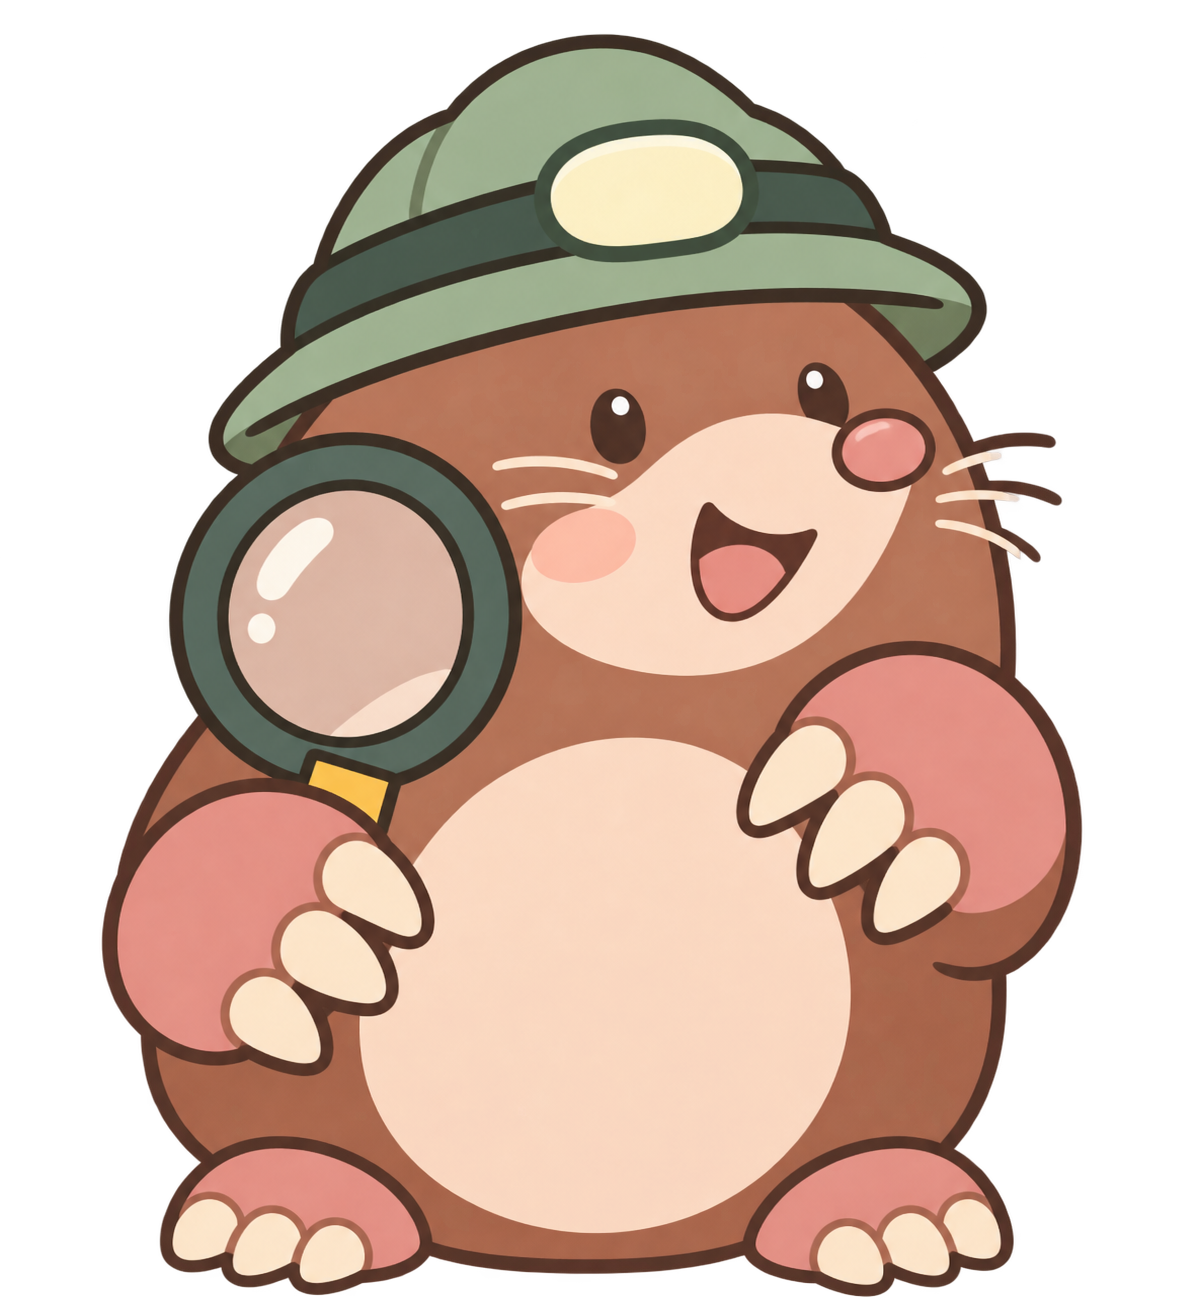
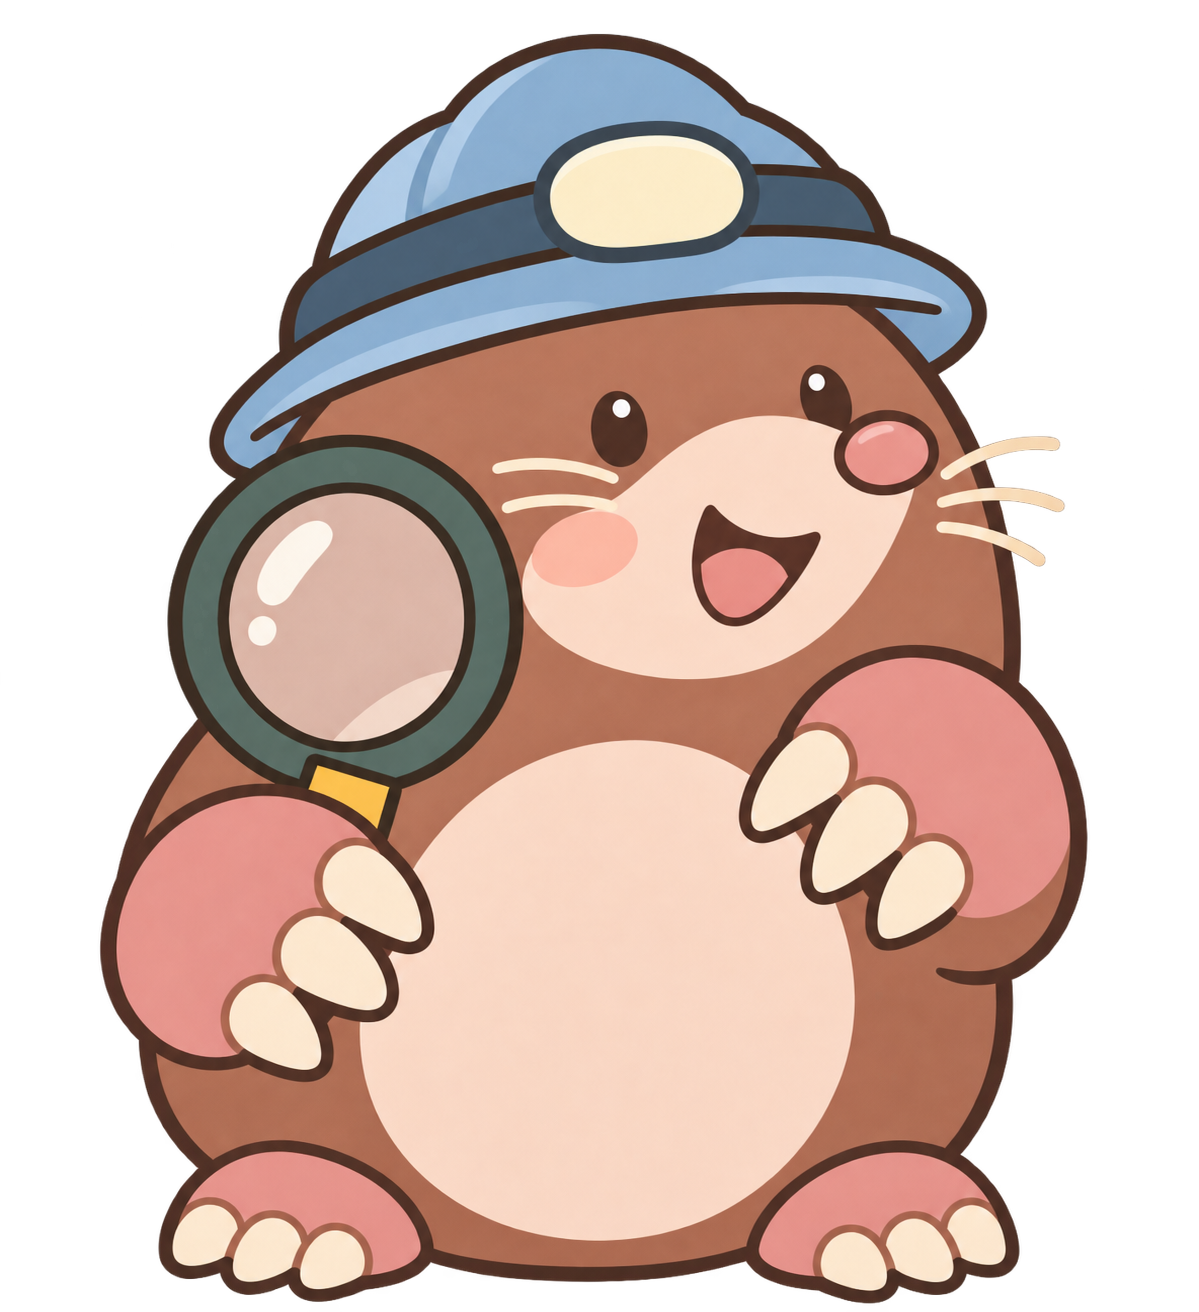
style: 두더지 모자와 수염 색상 통일

diff --git a/frontend/public/images/BLUE_MASCOTS.md b/frontend/public/images/BLUE_MASCOTS.md
@@ -1,0 +1,9 @@
+# 두더지 색상 통일
+
+도구: 내장 image_gen. 기존 7개 PNG를 각각 편집하고 투명 배경을 유지합니다.
+
+적용 파일: `mole-explorer.png`, `mole-welcome.png`, `mole-strategy.png`, `mole-success.png`, `mole-investigate.png`, `mole-event-review.png`, `mole-calendar.png`.
+
+## 최종 공통 편집 프롬프트
+
+Use case: precise-object-edit. Edit the FIRST image, preserving it as closely as possible. Change ONLY two colors: (1) make the entire miner helmet crown and brim a consistent soft cornflower blue, base #87ADD3, with lighter blue highlights #B9D3EA and dark navy-blue band #405A73; keep the existing pale yellow headlamp, brown outlines, cap shape and shading. (2) ALL whisker strokes on BOTH cheeks must have the SAME warm light cream color #FFE6C8, including the whiskers extending beyond the silhouette. No dark brown, green or yellow whiskers on either side. Preserve every other color: chestnut brown fur, peach cream muzzle/belly, pink nose/cheeks/paws, cream claws. Preserve exact pose, facial expression, proportions, accessories, report/chart/calendar/clipboard/map/sprout, framing, silhouette, hand-painted texture, and transparency. No new objects, text, backdrop, decorative symbols or watermark. Keep genuinely transparent background with alpha. The optional SECOND image is only a blue helmet palette reference, never replace the first image pose with the reference.

diff --git a/frontend/public/images/GENERATED_POSES.md b/frontend/public/images/GENERATED_POSES.md
@@ -1,5 +1,7 @@
 # 행사 분석·운영 캘린더 두더지
 
+현재 표시 자산은 파란 모자·크림색 수염으로 통일했습니다. 색상 편집 프롬프트는 [BLUE_MASCOTS.md](BLUE_MASCOTS.md)를 참고하세요. 아래는 최초 생성 기록입니다.
+
 내장 image_gen 도구로 생성했습니다. 참조: `mole-investigate.png`. 기존 캐릭터를 유지한 투명 배경 PNG이며 페이지별 동작을 구분합니다.
 
 ## 행사 전후 분석: mole-event-review.png

diff --git a/frontend/public/images/POSES.md b/frontend/public/images/POSES.md
@@ -1,5 +1,7 @@
 # 상황별 두더지
 
+현재 표시 자산은 파란 모자·크림색 수염으로 통일했습니다. 색상 편집 프롬프트는 [BLUE_MASCOTS.md](BLUE_MASCOTS.md)를 참고하세요. 아래는 최초 생성 기록입니다.
+
 내장 `image_gen` 도구로 기존 `mole-explorer.png`를 참조해 생성했습니다. 화면 구성은 유지하고 이미지의 역할만 구분합니다.
 
 | 파일 | 사용 위치 | 동작 |
